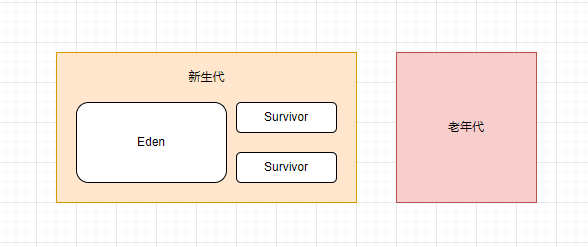
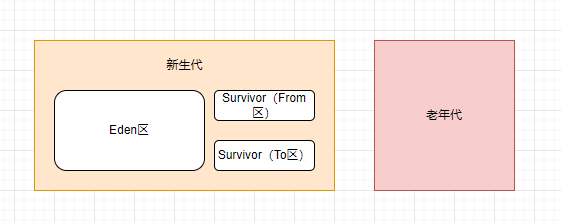
c

diff --git a/docs/JAVA/知识点/03JVM堆内存划分和堆内存垃圾回收流程.md b/docs/JAVA/知识点/03JVM堆内存划分和堆内存垃圾回收流程.md
@@ -7,13 +7,18 @@ tags: [java, 知识小记]
 
 ## 堆内存垃圾回收流程
 
-- 新建对象，放到Eden区，满后触发MinorGC。
-- 存货的对象移动到Survivor的SO区，满后MinorGC。
-- SO存活下来的对象移动到S1区，然后S0区空闲。
-- S1满后触发MinorGC，再次移动到S0区，然后S1区空闲。
-- 反复GC每次对象涨一岁，到达一定次数后（默认15次），进入老年代。
-- 当老年代内存不足会触发FullGC，出现STW（Stop-The-World）。
+1. 新建对象，放到Eden区，满后触发Minor GC。
+2. 存货的对象移动到Survivor的SO区，满后Minor GC。
+3. SO存活下来的对象移动到S1区，然后S0区空闲。
+4. S1满后触发Minor GC，再次移动到S0区，然后S1区空闲。
+5. 反复GC每次对象涨一岁，到达一定次数后（默认15次），进入老年代。
+6. 当老年代内存不足会触发Full GC，出现STW（Stop-The-World）。
 
 ## 堆空间
 
-![image-20230103201733841](/img/JAVA/知识点/堆空间.png)
+![堆空间](/img/JAVA/知识点/堆空间.png)
+
+- Eden区与两个Survivor区的比例是8：1：1。
+- jvm区域总体分两类: `heap区`和`非heap区`。
+- heap区分为：Eden Spance（伊甸园）、Survivor Space（幸存者区）、Tenured Gen（老年代-养老区）。
+- 非heap区分为：Code Cache（代码缓存区）、Perm Gen（永久代）、JVM Stack（java虚拟机栈）、Local Method Stack（本地方法栈）
